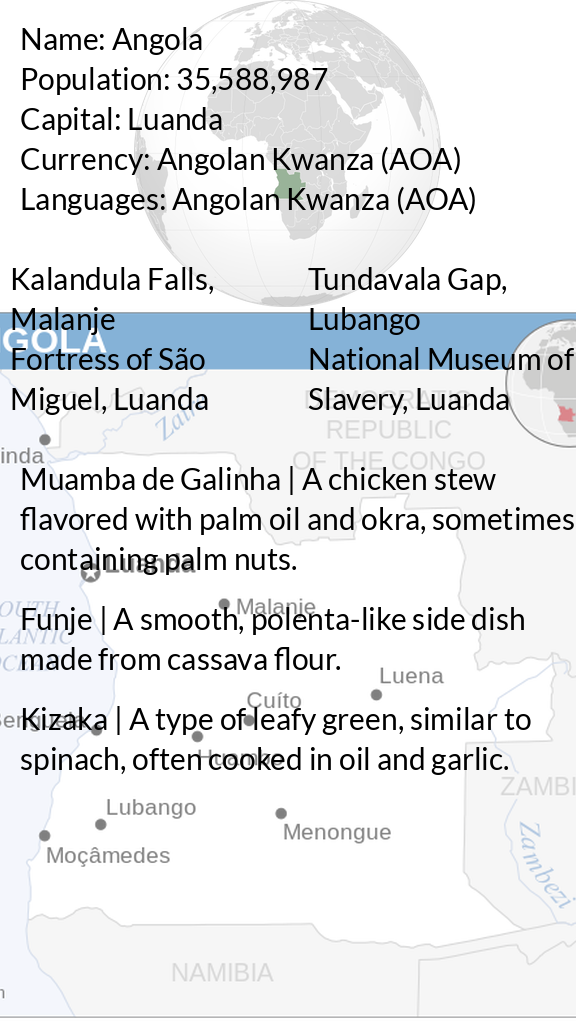
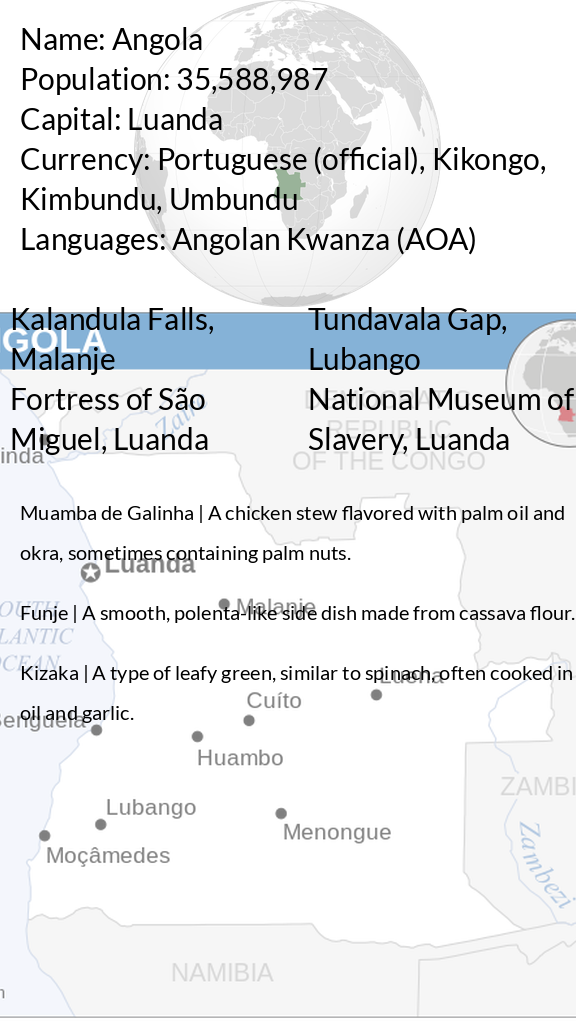
Track image files with Git LFS

Changed region(s): [[0.0, 0.125, 1.0, 0.5625], [0.0312, 0.5938, 1.0, 0.7812]]

diff --git a/src/createCardFront.py b/src/createCardFront.py
@@ -3,11 +3,13 @@ from PIL import Image, ImageDraw, ImageFont
 import os
 
 font_size = 30
+small_font_size = 20
 line_height = 40
 font_folder = "../files/font"
 font_name = "Lato-Regular.ttf"
 font_path = os.path.join(font_folder,font_name)
 font = ImageFont.truetype(font_path, font_size)
+small_font = ImageFont.truetype(font_path, small_font_size)
 
 # Directory where the images are stored
 image_folder = '../files/globe'
@@ -107,23 +109,23 @@ def create_front_card(index,country_info):
     text_y = draw_text(draw, f'Name: {country_info[0]}', (text_x, text_y), font, card_width)
     text_y = draw_text(draw, f'Population: {country_info[1]}', (text_x, text_y), font, card_width)
     text_y = draw_text(draw, f'Capital: {country_info[2]}', (text_x, text_y), font, card_width)
-    text_y = draw_text(draw, f'Currency: {country_info[4]}', (text_x, text_y), font, card_width)
+    text_y = draw_text(draw, f'Currency: {country_info[3]}', (text_x, text_y), font, card_width)
     text_y = draw_text(draw, f'Languages: {country_info[4]}', (text_x, text_y), font, card_width)
     text_y += 40
     # Landmark information
     landmarks = landmarks_dict.get(country_name)
-    h1 = draw_text(draw, f'{landmarks[0]}', (10, text_y), font, card_width/2)
-    h2 = draw_text(draw, f'{landmarks[2]}', (20+card_width/2, text_y), font, card_width/2)
+    h1 = draw_text(draw, f'{landmarks[0]}', (10, text_y), font, card_width/2-10)
+    h2 = draw_text(draw, f'{landmarks[2]}', (20+card_width/2, text_y), font, card_width/2-10)
     text_y = max(h1,h2)
     h1 = draw_text(draw, f'{landmarks[1]}', (10, text_y), font, card_width/2)
-    h2 = draw_text(draw, f'{landmarks[3]}', (20+card_width/2, text_y), font, card_width/2)
+    h2 = draw_text(draw, f'{landmarks[3]}', (20+card_width/2, text_y), font, card_width/2-10)
     text_y = max(h1,h2)+40
     
-    text_y = draw_text(draw, f'{country_info[6]}', (text_x, text_y), font, card_width)
+    text_y = draw_text(draw, f'{country_info[6]}', (text_x, text_y), small_font, card_width-20)
     text_y += 20
-    text_y = draw_text(draw, f'{country_info[7]}', (text_x, text_y), font, card_width)
+    text_y = draw_text(draw, f'{country_info[7]}', (text_x, text_y), small_font, card_width-20)
     text_y += 20
-    text_y = draw_text(draw, f'{country_info[8]}', (text_x, text_y), font, card_width)
+    text_y = draw_text(draw, f'{country_info[8]}', (text_x, text_y), small_font, card_width-20)
     
     # Save the card
     card.save(f'{output_dir}/{index}_{country_name}_front.png')
